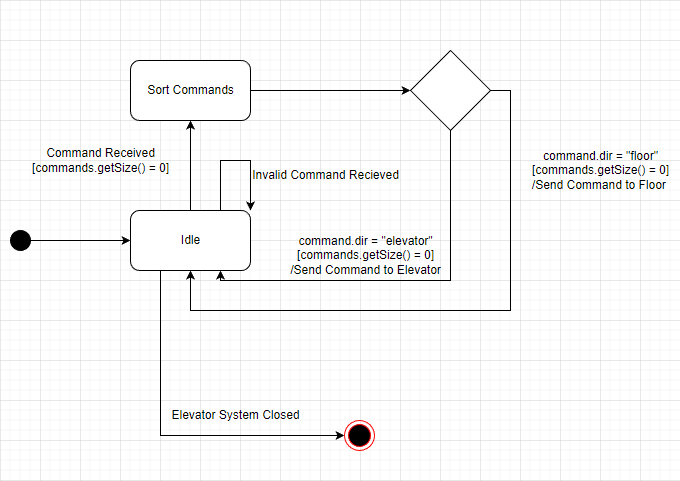
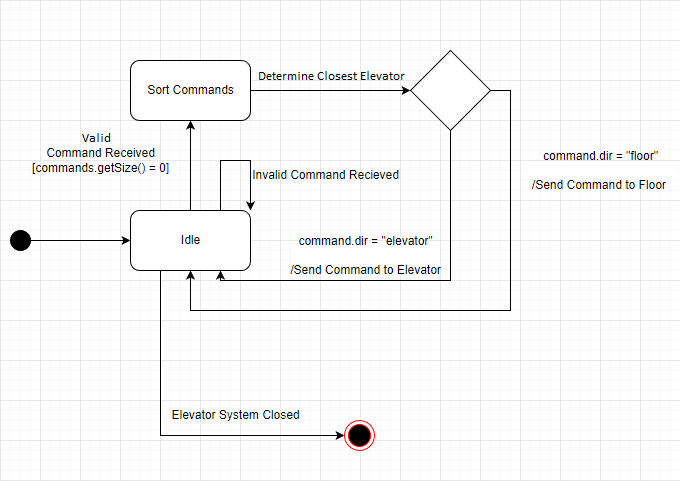
Add files via upload
Testing updated for UDP
Updated state machine diagram for scheduler, implemented states in scheduler
Changed localized public methods in scheduler to private

diff --git a/src/Scheduler.java b/src/Scheduler.java
@@ -8,7 +8,7 @@ import java.util.ArrayList;
  *
  */
 public class Scheduler extends Thread {
-
+	public enum SchedulerState {Idle, Sorting};
 	DatagramPacket sendElevatorPacket, receiveFloorPacket, sendFloorPacket,receiveElevator;
 	DatagramSocket sendReceiveSocket, receiveSocket,sendFloorSocket;
 	private ElevatorCommands commands; //Shared command list
@@ -24,6 +24,7 @@ public class Scheduler extends Thread {
 	 * @param commands List of elevator commands that the Scheduler will manage
 	 */
 	public Scheduler(ElevatorCommands commands,int portNum) {
+		SchedulerState = SchedulerState.Idle;
 		this.portNum = portNum;
 		this.commands = commands;
 		this.elevatorList = new ArrayList<Elevator>();
@@ -37,7 +38,7 @@ public class Scheduler extends Thread {
 			// Construct a datagram socket and bind it to port 23
 			// on the local host machine. This socket will be used to
 			// receive UDP Datagram packets.
-			//receiveSocket = new DatagramSocket(portNum);
+			//receiveSocket = new DatagramSocket(23);
 
 		} catch (SocketException se) {
 			se.printStackTrace();
@@ -75,32 +76,39 @@ public class Scheduler extends Thread {
 			}
 
 		 */
+			//Update state
+			SchedulerState = SchedulerState.Sorting;
 
-			System.out.println("Scheduler received command and sorting!");
+			System.out.println("Server received command and sorting!");
 			//currentCommand = commands.getCommand(0); //Selects next command to be moved
 
 			//Decide if command is valid needs to be refined
-			if (currentCommand.getDir() != "up" || currentCommand.getDir() != "down" || currentCommand.getDest() != "floor" || currentCommand.getDest() != "server" || currentCommand.getDest() != "elevator" ||
-					currentCommand.getSource() != "floor" || currentCommand.getSource() != "server" || currentCommand.getSource() != "elevator") {
+			if (!(currentCommand.getDir().equals("up") || currentCommand.getDir().equals("down") || currentCommand.getDest().equals("floor") || currentCommand.getDest().equals("server") || currentCommand.getDest().equals("elevator") ||
+				currentCommand.getSource().equals("floor") || currentCommand.getSource().equals("server") || currentCommand.getSource().equals("elevator")) || currentCommand.getDest().equals(currentCommand.getSource()) ||
+				currentCommand.getStartFloor > elevatorList.getSize() || currentCommand.getDestFloor > elevatorList.getSize()) {
 				System.out.println("Command invalid. Removing");
 				currentCommand = null;
 			}
 
-			//Sort list here
-
+			//Determine best elevator to send command to
 			Elevator closestElevator = determineClosestElevator();
 
+			//Send command
 			if (currentCommand.getDest().equals("elevator") ){
 				sendCommandElevator(closestElevator);
 			} else {
 				sendCommandFloor();
 			}
+
+			//Update state
+			SchedulerState = SchedulerState.Idle;
 			//commands.notifyAll();
 		//}
 	}
 
 	/**
 	 * Scheduler sends a command to either an Elevator
+	 * @param elevator The elevator the command is sent to
 	 */
 	private void sendCommandElevator(Elevator elevator) {
 		/*
@@ -144,7 +152,14 @@ public class Scheduler extends Thread {
 		}
 
 		//Print out content of the message host is sending
-		System.out.println( "Scheduler: Sending packet to elevator:");
+		System.out.println( "Host: Sending packet to server:");
+		System.out.println("To host: " + sendElevatorPacket.getAddress());
+		System.out.println("Destination host port: " + sendElevatorPacket.getPort());
+		int len = sendElevatorPacket.getLength();
+		System.out.println("Length: " + len);
+		System.out.print("Byte Array: ");
+		System.out.print("String Form: ");
+		System.out.println(new String(sendElevatorPacket.getData(),0,len)+"\n");
 
 		// Send the datagram packet to the server via the socket.
 		try {
@@ -154,7 +169,7 @@ public class Scheduler extends Thread {
 			System.exit(1);
 		}
 
-		System.out.println("Scheduler: Packet sent to elevator\n");
+		System.out.println("Host: Packet sent to server\n");
 
 		}
 
@@ -209,10 +224,16 @@ public class Scheduler extends Thread {
 		}
 
 		//Print out content of the message host is sending
-		System.out.println( "Scheduler: Sending packet to floor:");
+		System.out.println( "Host: Sending packet to server:");
+		System.out.println("To host: " + sendFloorPacket.getAddress());
+		System.out.println("Destination host port: " + sendFloorPacket.getPort());
+		int len = sendFloorPacket.getLength();
+		System.out.println("Length: " + len);
+		System.out.print("Byte Array: ");
+		System.out.print("String Form: ");
 		System.out.println(new String(sendFloorPacket.getData(),0,len)+"\n");
 
-		// Send the datagram packet to the elevator via the socket.
+		// Send the datagram packet to the server via the socket.
 		try {
 			sendFloorSocket.send(sendFloorPacket);
 		} catch (IOException e) {
@@ -220,7 +241,7 @@ public class Scheduler extends Thread {
 			System.exit(1);
 		}
 
-		System.out.println("Scheduler: Packet sent to floor\n");
+		System.out.println("Host: Packet sent to server\n");
 
 	}
 
@@ -229,6 +250,8 @@ public class Scheduler extends Thread {
 	 * Algorithm:
 	 * Scheduler first searches for any elevators that are moving towards the destination floor. If at least one exists, only they are considered. Otherwise, all are considered
 	 * Scheduler then determines the elevator that will take the shortest amount of time to reach the destination floor i.e smallest gap in floor difference
+	 *
+	 * @return closestElevator The Elevator which is closest to the destination floor
 	 */
 	private Elevator determineClosestElevator(){
 		ArrayList<Elevator> consideredElevators;
@@ -250,6 +273,7 @@ public class Scheduler extends Thread {
 			if (Math.abs(el.getDestFloor() - closestElevator.getDestFloor()) < closest) closestElevator = el;
 		}
 
+		System.out.println("Closest elevator is: " + elevatorList.indexOf(closestElevator));
 		return closestElevator;
 	}
 
@@ -257,16 +281,10 @@ public class Scheduler extends Thread {
 	 * Receive and send method
 	 * Sends and receives messages from and to client/server, waiting every time it has to receive
 	 */
-	public void receiveFloor()
+	private void receiveFloor()
 	{
 		// Construct a DatagramPacket for receiving floor packets up
 		// to 100 bytes long (the length of the byte array).
-		try {
-			receiveSocket = new DatagramSocket(portNum);
-		} catch (SocketException e) {
-			throw new RuntimeException(e);
-		}
-
 		byte[] data = new byte[5000];
 		receiveFloorPacket = new DatagramPacket(data, data.length);
 		System.out.println("Scheduler: Waiting for Packet.\n");
@@ -291,7 +309,11 @@ public class Scheduler extends Thread {
 
 	}
 
-	public void receiveElevator()
+	/**
+	 * Receive and send method
+	 * Sends and receives messages from and to client/server, waiting every time it has to receive
+	 */
+	private void receiveElevator()
 	{
 		// Construct a DatagramPacket for receiving floor packets up
 		// to 100 bytes long (the length of the byte array).

diff --git a/src/TestSheduler.java b/src/TestSheduler.java
@@ -1,0 +1,66 @@
+import static org.junit.jupiter.api.Assertions.*;
+import org.junit.jupiter.api.Test;
+
+/**
+ * JUnit tests for the Scheduler class.
+ * @author Ashwin Stoparczyk
+ *
+ */
+
+class TestScheduler {
+
+    /**
+     * Stall thread for given amount of time. Used to wait
+     * since threads may take some time to execute.
+     * @param millis Time in milliseconds
+     */
+    private void delayFor(int millis) {
+        try {
+            Thread.sleep(millis);
+        } catch (InterruptedException e) {
+            e.printStackTrace();
+        }
+    }
+
+    @BeforeEach
+    public void init(){
+        //List of all pending commands
+        ElevatorCommands commands = new ElevatorCommands();
+
+        //Create Floor, Elevator, and Scheduler threads
+        Thread floor1 = new Floor(commands, 40);
+        Thread floor2 = new Floor(commands, 41);
+        Thread scheduler = new Scheduler(commands);
+        Thread elevator1 = new Elevator(commands, 50);
+        Thread elevator2 = new Elevator(commands, 51);
+
+        //Start all treads
+        floor1.start();
+        floor2.start();
+        scheduler1.start();
+        elevator1.start();
+        elevator2.start();
+    }
+
+    @Test
+    /**
+     * Tests scheduler with a test input file (TODO)
+     * All contained methods are private but are all present and produce their own outputs when used
+     */
+    public void testScheduler(){
+        floor1.createCommand(1, 2, System.currentTimeMillis(), "up");
+        delayFor(10000);
+        floor2.createCommand(2, 1, System.currentTimeMillis(), "down");
+        delayFor(10000);
+        floor1.createCommand(1, 1, System.currentTimeMillis(), "up");
+        delayFor(1000);
+        floor1.createCommand(1, 1, System.currentTimeMillis(), "jkhmn");
+        delayFor(1000);
+        floor1.createCommand(13, 1, System.currentTimeMillis(), "down");
+        delayFor(1000);
+        floor1.createCommand(1, 11, System.currentTimeMillis(), "up");
+
+        //Expected output is two working commands, with all outputs, then a bunch of failed commands (to and from same floor, impossible name for direction, etc.)
+        //Will also contain outputs from UDP passing in private methods
+    }
+}
